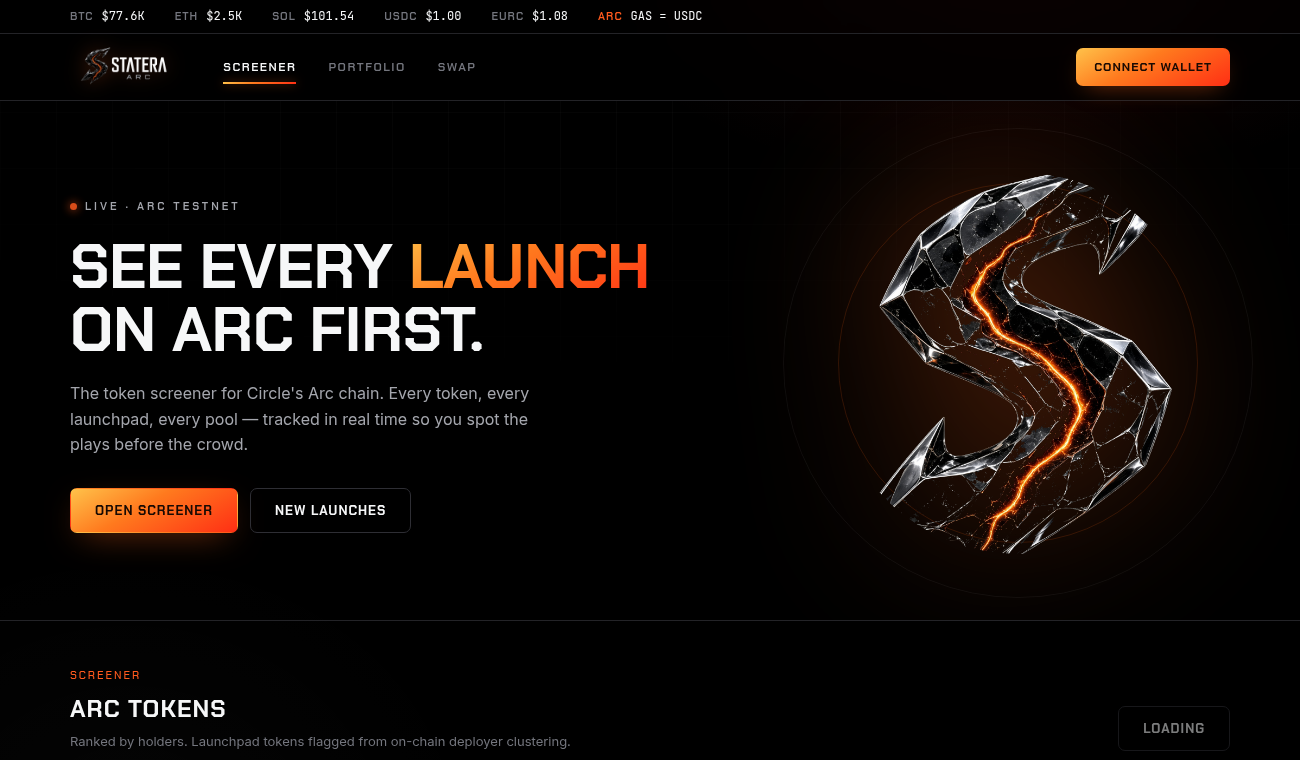
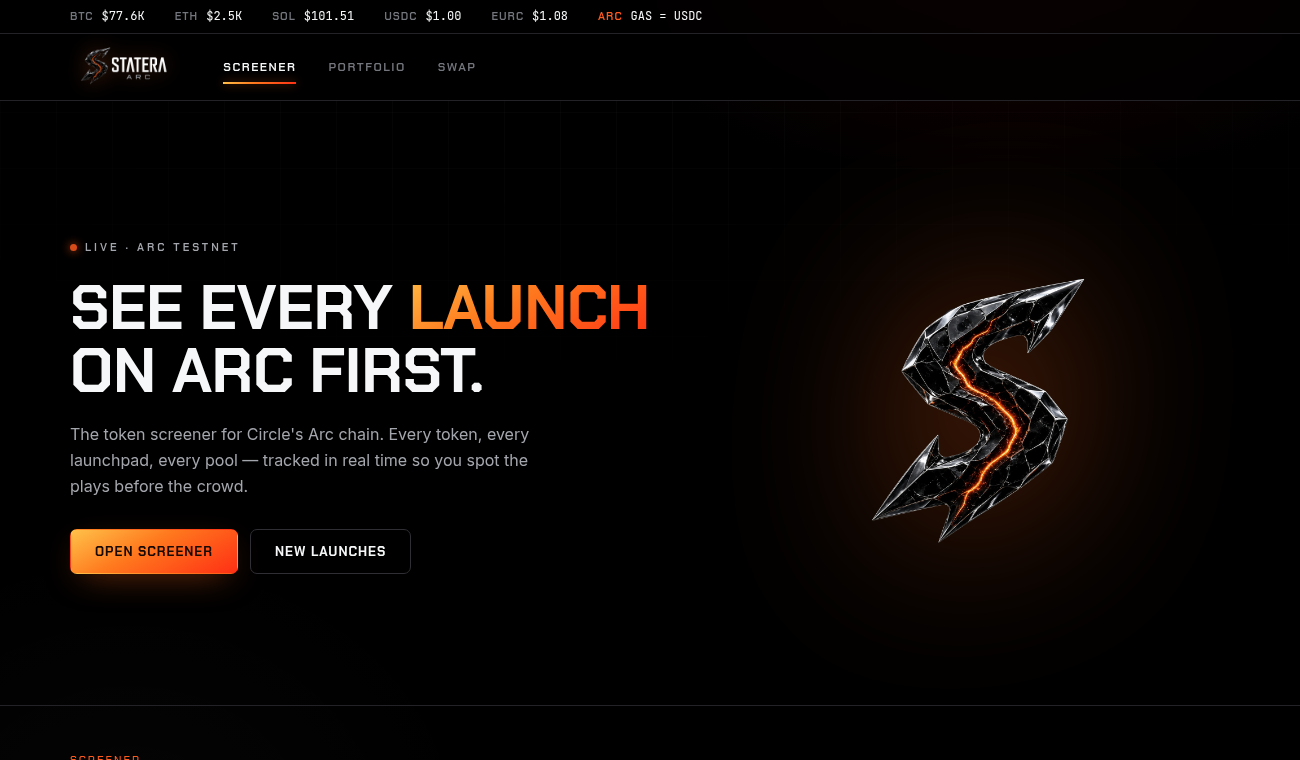
statera: interactive hero — big full S, cursor tilt + float, no rings/box
Swapped hero S to the Zetrj render (full tips, no top/bottom cutoff), flood-filled
to transparent PNG. Removed orbit rings, sized S up to fill. 3D cursor-tilt +
float animation for a live feel. Connect Wallet now shows only on Portfolio/Swap,
not the screener.

diff --git a/src/index.css b/src/index.css
@@ -60,8 +60,8 @@ img { max-width: 100%; display: block; }
 .connect:hover { filter: brightness(1.08); }
 
 /* ============ hero ============ */
-.hero { position: relative; overflow: hidden; border-bottom: 1px solid var(--line); }
-.hero .wrap { display: grid; grid-template-columns: 1.25fr .75fr; gap: 30px; align-items: center; padding: 72px 20px 66px; }
+.hero { position: relative; overflow: visible; border-bottom: 1px solid var(--line); }
+.hero .wrap { display: grid; grid-template-columns: 1.15fr .85fr; gap: 24px; align-items: center; padding: 64px 20px 60px; }
 .eyebrow { display: inline-flex; align-items: center; gap: 8px; font-family: var(--disp); font-weight: 600; font-size: 11px; letter-spacing: 3px; text-transform: uppercase; color: var(--gray); margin-bottom: 20px; }
 .eyebrow .dot { width: 7px; height: 7px; border-radius: 50%; background: var(--red); box-shadow: 0 0 10px var(--red); animation: pulse 2s infinite; }
 @keyframes pulse { 0%,100% { opacity: 1; } 50% { opacity: .35; } }
@@ -69,10 +69,18 @@ img { max-width: 100%; display: block; }
 .hero h1 .r { background: var(--fire); -webkit-background-clip: text; background-clip: text; -webkit-text-fill-color: transparent; }
 .hero p.lede { color: var(--gray); font-size: 16px; line-height: 1.6; max-width: 500px; margin: 20px 0 30px; }
 .hero-cta { display: flex; gap: 12px; flex-wrap: wrap; }
-.hero-visual { position: relative; display: grid; place-items: center; min-height: 300px; }
-.hero-s { width: min(400px, 90%); height: auto; filter: drop-shadow(0 0 80px rgba(255,100,26,.45)); }
-.hero-ring { position: absolute; width: 360px; height: 360px; border-radius: 50%; border: 1px solid rgba(255,100,26,.16); }
-.hero-ring.two { width: 470px; height: 470px; border-color: rgba(255,255,255,.05); }
+.hero-visual { position: relative; display: grid; place-items: center; min-height: 480px; perspective: 1100px; }
+.hero-s { width: min(560px, 108%); height: auto; cursor: grab;
+  filter: drop-shadow(0 0 90px rgba(255,100,26,.5));
+  transform: rotateX(var(--rx, 0deg)) rotateY(var(--ry, 0deg));
+  transition: transform .3s cubic-bezier(.2,.7,.2,1); will-change: transform;
+  animation: floatY 7s ease-in-out infinite; }
+.hero-s:active { cursor: grabbing; }
+@keyframes floatY { 0%,100% { translate: 0 -9px; } 50% { translate: 0 11px; } }
+.hero-ring { position: absolute; border-radius: 50%; pointer-events: none; }
+.hero-ring.r1 { width: min(410px, 96vw); height: min(410px, 96vw); border: 1px solid rgba(255,100,26,.16); animation: spin 34s linear infinite; }
+.hero-ring.r2 { width: min(520px, 118vw); height: min(520px, 118vw); border: 1px dashed rgba(255,255,255,.06); animation: spin 64s linear infinite reverse; }
+@keyframes spin { to { transform: rotate(360deg); } }
 
 .btn { font-family: var(--disp); font-weight: 700; font-size: 13px; letter-spacing: 1px; text-transform: uppercase; cursor: pointer; border-radius: 7px; padding: 13px 24px; transition: .15s; border: 1px solid transparent; }
 .btn.solid { background: var(--fire); color: #180a03; box-shadow: 0 10px 34px -12px var(--red-glow); }

diff --git a/src/App.tsx b/src/App.tsx
@@ -1,4 +1,4 @@
-import { useEffect, useMemo, useState } from 'react';
+import { useEffect, useMemo, useRef, useState } from 'react';
 import { fetchTokens, enrichLaunchpad, fetchMarket, fmt, price, CHAIN, NET, type Token, type MarketPx } from './lib/arc';
 import { TokenLogo } from './components/TokenLogo';
 
@@ -66,6 +66,18 @@ export default function App() {
 
   const go = (p: Page) => { setPage(p); window.scrollTo({ top: 0, behavior: 'smooth' }); };
 
+  // Interactive hero: the S tilts in 3D toward the cursor.
+  const stage = useRef<HTMLDivElement>(null);
+  const onMove = (e: React.MouseEvent) => {
+    const el = stage.current; if (!el) return;
+    const r = el.getBoundingClientRect();
+    const px = (e.clientX - r.left) / r.width - 0.5;
+    const py = (e.clientY - r.top) / r.height - 0.5;
+    el.style.setProperty('--ry', (px * 30).toFixed(1) + 'deg');
+    el.style.setProperty('--rx', (-py * 22).toFixed(1) + 'deg');
+  };
+  const onLeave = () => { const el = stage.current; if (el) { el.style.setProperty('--ry', '0deg'); el.style.setProperty('--rx', '0deg'); } };
+
   return (
     <>
       <div className="backdrop" />
@@ -87,7 +99,7 @@ export default function App() {
             {NAV.map((n) => <button key={n.key} className={page === n.key ? 'on' : ''} onClick={() => go(n.key)}>{n.label}</button>)}
           </div>
           <div className="spacer" />
-          <button className="connect">Connect Wallet</button>
+          {page !== 'screener' && <button className="connect">Connect Wallet</button>}
         </div></div>
 
         {page === 'screener' && (
@@ -103,9 +115,8 @@ export default function App() {
                   <button className="btn ghost" onClick={() => { setFilter('new'); document.getElementById('screener')?.scrollIntoView({ behavior: 'smooth' }); }}>New Launches</button>
                 </div>
               </div>
-              <div className="hero-visual">
-                <div className="hero-ring two" /><div className="hero-ring" />
-                <img className="hero-s" src="/statera-s.png" alt="Statera" />
+              <div className="hero-visual" ref={stage} onMouseMove={onMove} onMouseLeave={onLeave}>
+                <img className="hero-s" src="/statera-hero.png" alt="Statera" draggable={false} />
               </div>
             </div></section>
 
